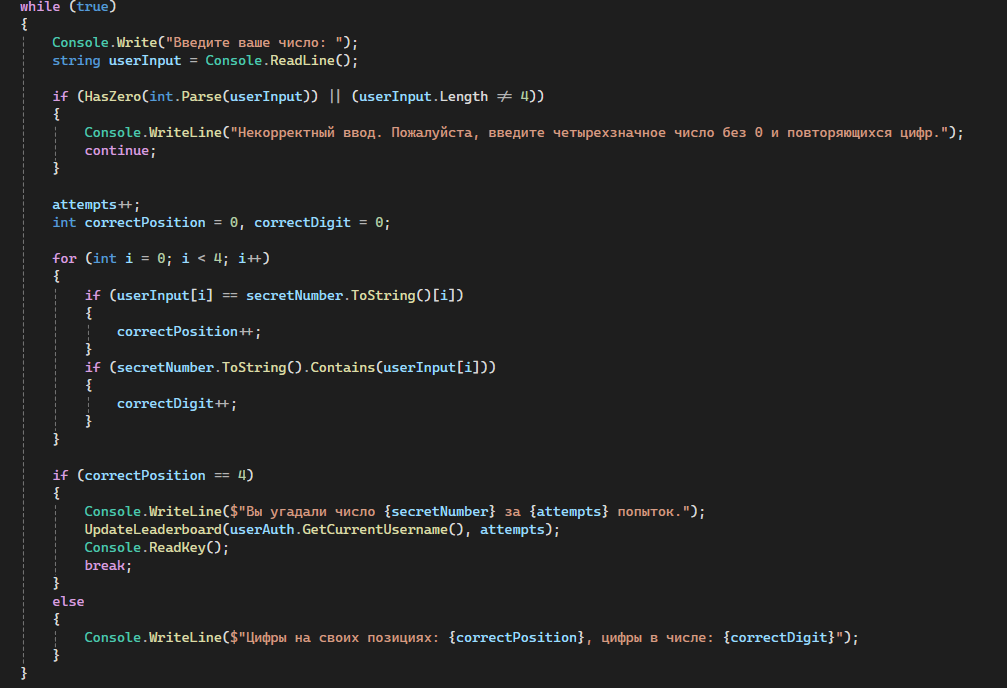
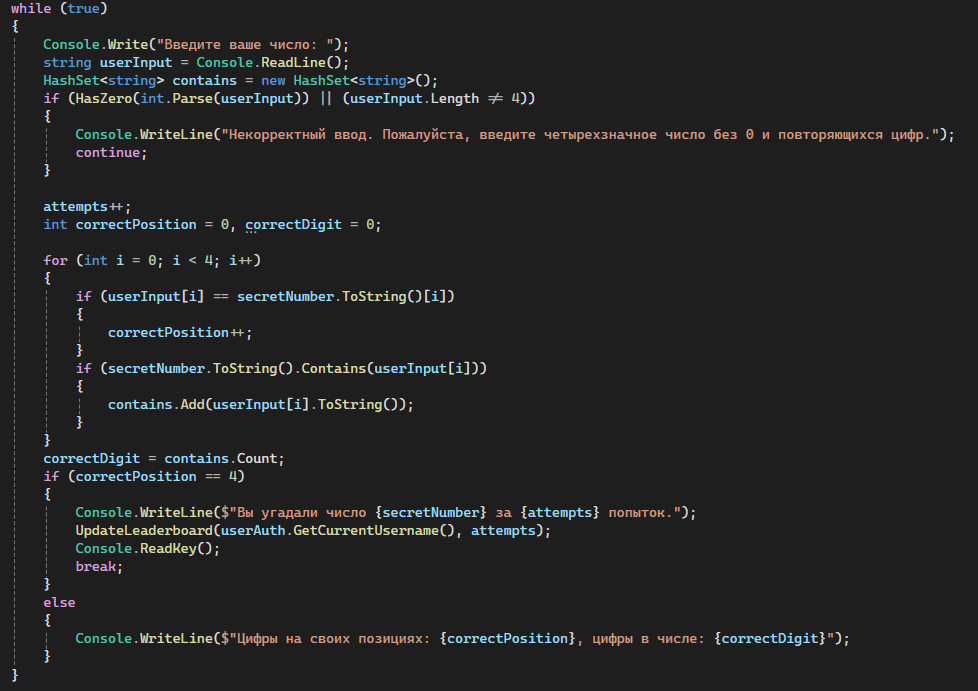
Logic fixed

diff --git a/Program.cs b/Program.cs
@@ -22,7 +22,7 @@ namespace _4digit_guess
             {                
                 Console.Write("Введите ваше число: ");
                 string userInput = Console.ReadLine();
-
+                HashSet<string> contains = new HashSet<string>(); 
                 if (HasZero(int.Parse(userInput)) || (userInput.Length != 4))
                 {
                     Console.WriteLine("Некорректный ввод. Пожалуйста, введите четырехзначное число без 0 и повторяющихся цифр.");
@@ -40,10 +40,10 @@ namespace _4digit_guess
                     }
                     if (secretNumber.ToString().Contains(userInput[i]))
                     {
-                        correctDigit++;
+                        contains.Add(userInput[i].ToString());
                     }
                 }
-
+                correctDigit = contains.Count;
                 if (correctPosition == 4)
                 {
                     Console.WriteLine($"Вы угадали число {secretNumber} за {attempts} попыток.");
